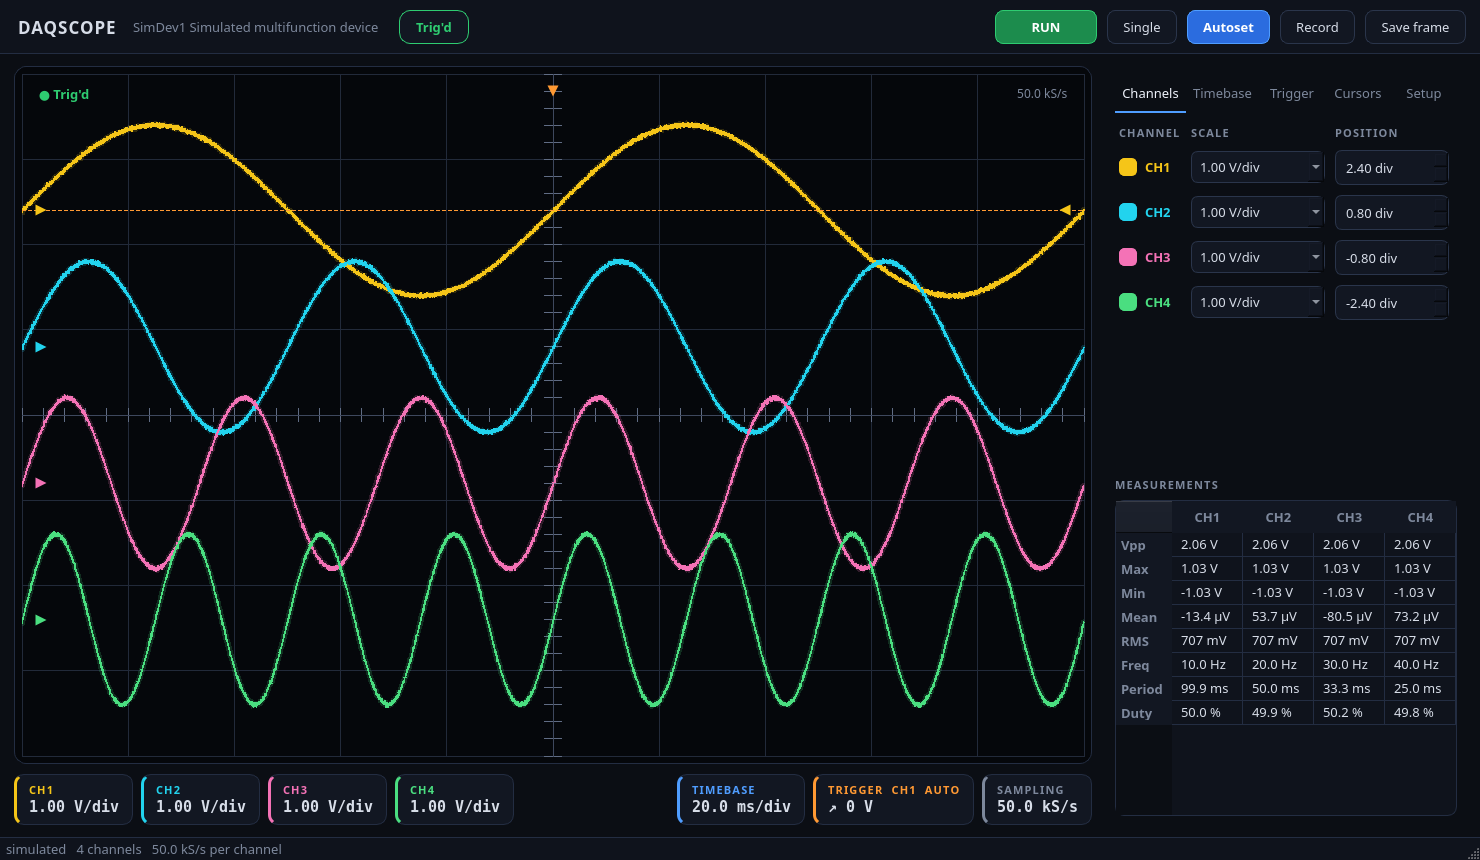
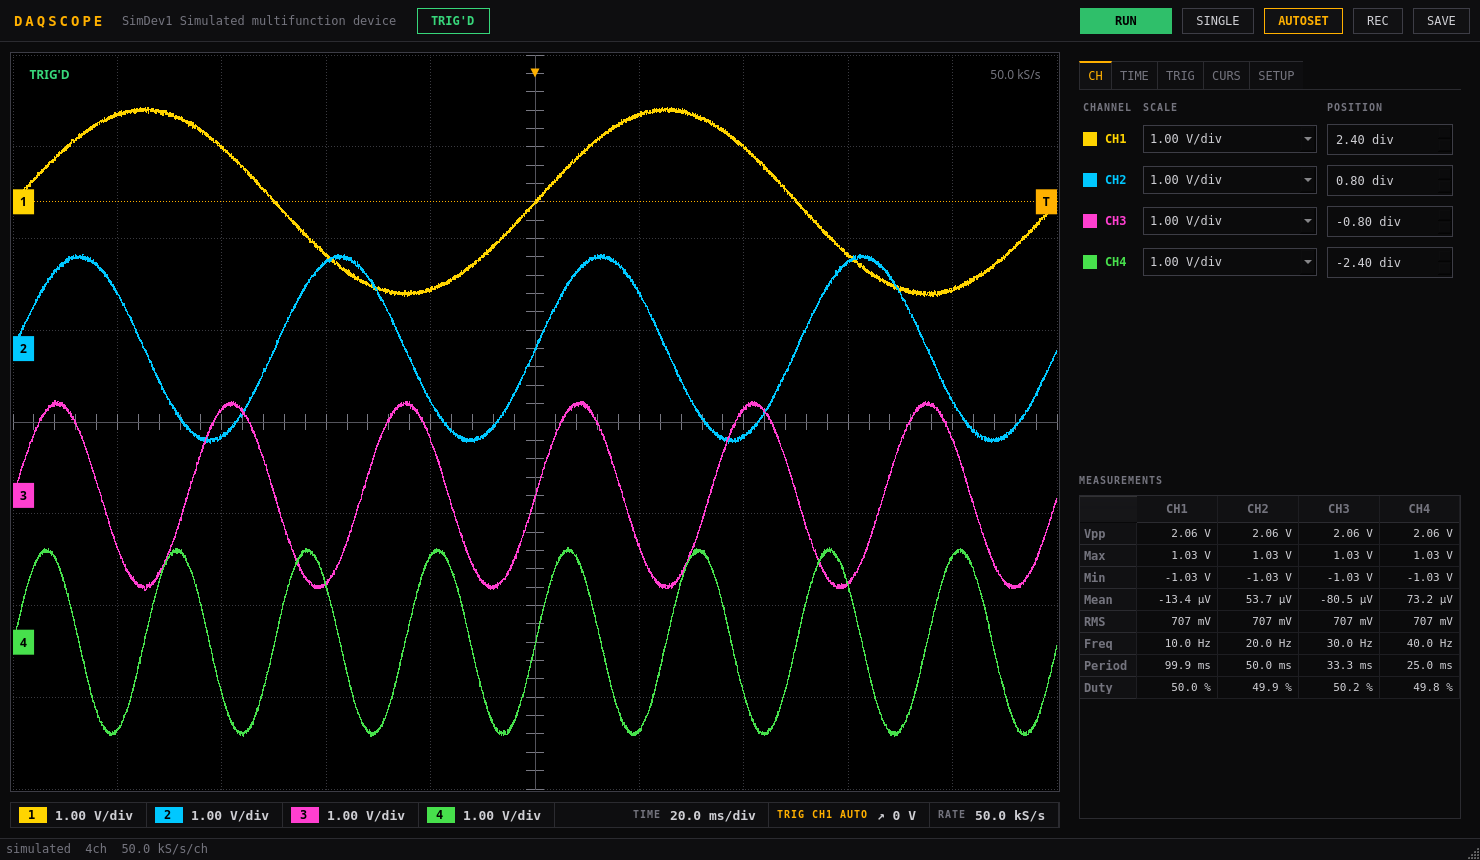
Condense README and note hardware verification

diff --git a/README.md b/README.md
@@ -1,154 +1,108 @@
 # DAQScope
 
-A free oscilloscope for data acquisition cards. You plug in an NI card, start DAQScope, and get
-a scope screen with V/div and time/div knobs, an edge trigger, cursors and automatic
-measurements. Underneath is a small Python library that hands you the same data as numpy arrays,
-so whatever you see on screen you can also script.
+Oscilloscope front end and acquisition library for NI DAQ devices. Edge trigger, 1-2-5 scales,
+cursors, automatic measurements and file recording in the GUI. The same data is available as
+numpy arrays from Python. A simulated device is built in, so nothing here needs hardware to run.
 
-![DAQScope showing four channels](docs/screenshot.png)
+![DAQScope](docs/screenshot.png)
 
-I started it because a PCIe-6321 on my bench had no free way to look at a signal quickly. NI MAX
-test panels were not available on my machine, and the paid logging software is overkill when all
-you want is to see a waveform and save it. DAQScope aims to be the quick look tool, and a clean
-starting point if you want to build your own measurement program on top of it.
+Independent project, not affiliated with National Instruments. The NI-DAQmx driver is not
+included and must be installed separately.
 
-There is a simulated device built in. You can try everything, run the tests and develop new
-features without any hardware.
+## Install
 
-DAQScope is an independent project. It is not affiliated with or endorsed by National Instruments.
-For NI hardware you install the NI-DAQmx driver yourself, DAQScope does not ship it.
-
-## Try it in two minutes
-
-You need Python 3.9 or newer. A fresh environment keeps the Qt and numpy versions DAQScope brings
-from clashing with your other projects.
-
-With [uv](https://docs.astral.sh/uv/), which is the quickest:
+Python 3.9+. Use a fresh environment.
 
 ```
 git clone https://github.com/curlh/DAQScope.git
 cd DAQScope
-uv sync --extra gui --extra hdf5
-uv run python -m daqscope
+uv sync --extra gui --extra hdf5       # or: pip install -e .[gui,hdf5]
+uv run python -m daqscope              # simulated device
 ```
 
-With conda or venv:
+Extras: `gui` (PySide6, pyqtgraph), `hdf5` (h5py), `ni` (nidaqmx), `dev` (pytest).
+
+## NI hardware
+
+Install NI-DAQmx, then `pip install -e .[ni]` in the same environment.
 
 ```
-conda create -n daqscope python=3.12
-conda activate daqscope
-git clone https://github.com/curlh/DAQScope.git
-cd DAQScope
-pip install -e .[gui,hdf5]
-python -m daqscope
-```
-
-A window opens with four simulated channels. Press Autoset and the traces settle on screen.
-
-## Using it with a real card
-
-Install the NI-DAQmx driver from National Instruments, then add the Python side in the same
-environment and check that DAQScope can see your card.
-
-```
-pip install -e .[ni]
-python examples/hardware_check.py
-```
-
-That script lists the devices it finds and reads one second from the first analog input, which
-tells you quickly whether the driver and card are happy. Then start the scope on the real device:
-
-```
+python examples/hardware_check.py      # lists devices, reads 1 s from the first AI channel
 python -m daqscope --backend nidaqmx
 ```
 
-The NI backend is new. It follows the nidaqmx 1.x API and is covered by tests that run against a
-stand-in for the driver, so the first run on a real card is the real test. If something misbehaves,
-please open an issue with the device model and the error text.
+The backend targets nidaqmx 1.x. Device enumeration and continuous analog input have been run on
+a PCIe-6321 under Windows. Analog output, digital I/O and counters are covered by tests against a
+stand-in for the driver and have not been run on hardware yet. Reports with device model and error
+text are welcome. On multiplexed cards the aggregate AI rate is shared by the selected channels,
+and only rates the card supports for the current selection are offered.
 
-On cards that share one converter between channels, such as the X series, the maximum sample rate
-is divided between the channels you select. DAQScope only offers rates the card can do for the
-current selection.
+## Scope
 
-## What the scope does
+- Screen: 10 x 8 divisions, per-channel V/div (1 mV to 5 V) and position, time/div in 1-2-5 steps.
+- Trigger: rising or falling edge on any channel, Auto / Normal / Single, draggable level line.
+  Hysteresis is derived from the noise on the source (6 sigma of the second difference, capped at
+  40 % of the peak-to-peak range) or set by hand. The trigger point is interpolated between
+  samples. Auto mode rolls at 100 ms/div and slower.
+- Autoset sets V/div, position, trigger level and time/div from the signals.
+- Cursors: two time and two voltage cursors, with delta t, 1/delta t and delta V.
+- Measurements per channel: Vpp, max, min, mean, RMS, frequency, period, duty.
+- Display decimation keeps the min and max of every bin, so narrow glitches are not lost.
+- Record to HDF5, CSV or npz on a separate thread. Save writes the frame on screen.
+- Readout bar: click a channel to hide it, scroll over a tile to step its setting.
 
-The screen is a classic ten by eight divisions. Each channel has its own V/div and vertical
-position, and the timebase goes from microseconds to a second per division in the usual 1, 2, 5
-steps. Below the screen, a tile per channel shows its scale. Click a tile to hide the channel, or
-scroll over it to change the scale like turning a knob. The timebase and trigger tiles work the
-same way.
-
-Triggering works on a rising or falling edge of any channel, with Auto, Normal and Single modes.
-You can drag the trigger level line on the screen. Hysteresis is chosen automatically from the
-noise on the signal, so a slow edge with some noise does not make the picture flip between phases.
-The trigger point is interpolated between samples, which keeps the trace steady. At 100 ms per
-division and slower the display rolls instead of triggering, like a real scope.
-
-Autoset looks at the signals and picks V/div, position, trigger level and timebase for you. Two
-pairs of cursors read out time differences, frequency and voltage differences. The measurement
-table gives Vpp, maximum, minimum, mean, RMS, frequency, period and duty cycle per channel. At
-slow timebases the display keeps narrow glitches visible instead of dropping them.
-
-Record writes the incoming data to HDF5, CSV or npz while you watch. Writing happens on its own
-thread, so a slow disk does not disturb the display. Save frame stores just what is on screen.
-
-## Using it from Python
-
-The library does not need the GUI. A minimal acquisition into numpy:
+## Python
 
 ```python
 from daqscope.backends import get_backend
 from daqscope.core import AIChannel, AIConfig, AcquisitionSession
 
-backend = get_backend("simulated")          # or "nidaqmx"
+backend = get_backend("simulated")                  # or "nidaqmx"
 cfg = AIConfig([AIChannel("SimDev1/ai0"), AIChannel("SimDev1/ai1")], sample_rate=10_000)
 with AcquisitionSession(backend, cfg) as session:
-    data = session.read(10_000)             # numpy array, shape (2, 10000)
+    data = session.read(10_000)                     # ndarray, shape (2, 10000)
 ```
 
-For continuous acquisition, a `StreamRunner` reads on a worker thread into a ring buffer and
-hands every block to whoever subscribes, for example a file writer:
+Continuous acquisition with recording:
 
 ```python
 from daqscope.core import StreamRunner
 from daqscope.io import open_writer
 
 with AcquisitionSession(backend, cfg) as session:
-    runner = StreamRunner(session)
-    with open_writer("run.h5", [c.name for c in cfg.channels], cfg.sample_rate) as writer:
-        runner.subscribe(writer.put)
+    runner = StreamRunner(session)                  # worker thread, ring buffer, subscribers
+    with open_writer("run.h5", [c.name for c in cfg.channels], cfg.sample_rate) as w:
+        runner.subscribe(w.put)
         runner.start()
-        ...                                 # runner.buffer.latest(n) is the newest n samples
+        ...                                         # runner.buffer.latest(n)
         runner.stop()
 ```
 
-The trigger and timebase logic of the scope lives in `daqscope.core.ScopeEngine` and has no GUI
-dependency, so you can use it in scripts too. Analog output, digital lines and counters are
-available through the same backend object. See the `examples` folder for short runnable scripts.
+`daqscope.core.ScopeEngine` holds the trigger and timebase logic and does not depend on Qt.
+Analog output, digital lines and counters are exposed by the backend object
+(`create_ao`, `create_di`, `create_do`, `create_counter`). See `examples/`.
 
-## How it is put together
+## Layout
 
 ```
 src/daqscope/
-  core/        acquisition sessions, ring buffer, trigger and scope engine, measurements
-  backends/    the backend interface, a simulated device and the NI-DAQmx backend
-  io/          file writers and readers
-  gui/         the scope window, built with PySide6 and pyqtgraph
-examples/      small scripts, including a hardware check
-tests/         pytest suite, runs without hardware
+  core/       sessions, ring buffer, trigger, scope engine, measurements, waveforms
+  backends/   interface (base.py), simulated device, NI-DAQmx
+  io/         file writers and readers
+  gui/        scope window (PySide6, pyqtgraph)
+examples/
+tests/        pytest, no hardware needed
 ```
 
-The core never imports the GUI or a hardware package. Only the NI backend imports `nidaqmx`, and
-only `gui/qt.py` decides which Qt binding is used. To support another kind of hardware you
-implement the interfaces in `backends/base.py` and register the backend in
-`backends/__init__.py`. The simulated backend is a complete reference to copy from.
+`core` imports neither Qt nor a hardware package. Only `backends/nidaqmx_backend.py` imports
+`nidaqmx`, and only `gui/qt.py` selects the Qt binding. A new backend implements the interfaces in
+`backends/base.py` and is registered in `backends/__init__.py`.
 
-## Status and plans
+## Status
 
-The analog input scope, the simulated device, file recording and the NI backend are in place. The
-GUI does not yet have panels for analog output, digital I/O and counters, although the backends
-support them. Next on the list are those panels, an automatic sample rate that follows the
-timebase, and choosing the hardware voltage range from V/div.
+Done: analog input scope, simulated device, recording, NI-DAQmx backend.
+Not yet: GUI panels for analog output, digital I/O and counters (the backends support them),
+sample rate that follows the timebase, hardware input range tied to V/div.
 
 ## Development
 
@@ -157,10 +111,9 @@ pip install -e .[dev,gui,hdf5]
 pytest
 ```
 
-Tests use the simulated backend and a fake of the NI driver. To look at the GUI on a machine
-without a display, run with `QT_QPA_PLATFORM=offscreen`. See `CONTRIBUTING.md` for the ground
-rules.
+The tests use the simulated backend and a fake driver module. `QT_QPA_PLATFORM=offscreen` runs the
+GUI without a display. See `CONTRIBUTING.md`.
 
 ## License
 
-MIT, see `LICENSE`.
+MIT
